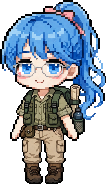
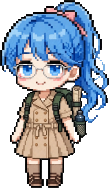
暗記大戦: ルミナの画像を差し替え、パスの文言を「学習機会に感謝してパス🙏」に
Claude-Session: https://claude.ai/code/session_01HyMbFgzqrrboVnKsKRj3Gv

diff --git a/apps/anki-taisen/index.html b/apps/anki-taisen/index.html
@@ -86,7 +86,7 @@ button:focus-visible,input:focus-visible,select:focus-visible{outline:2px solid 
 .btn:disabled{opacity:.45;cursor:default}
 /* ルミナの案内（2026-11-17 お試し）: 結果と今日の復習の声かけ */
 .lumi{display:flex;align-items:flex-end;gap:10px}
-.lumi img{width:53px;height:92px;image-rendering:pixelated;flex:none}
+.lumi img{width:auto;height:94px;image-rendering:pixelated;flex:none}   /* 2026-11-24 画像差し替え（元画像 src/lumina-src.webp、背景を抜いて109x188に縮小） */
 .lumi .say{position:relative;flex:1;min-width:0;background:var(--surf);color:var(--ink);border:2px solid var(--frame,var(--line));border-radius:6px;box-shadow:0 0 0 3px var(--frame2,transparent);padding:8px 12px 10px;margin:0 0 18px 6px;line-height:1.7;min-height:3.4em}
 .lumi .say::before{content:"";position:absolute;left:-12px;bottom:12px;border:6px solid transparent;border-right-color:var(--frame,var(--line))}
 .lumi .say b{display:block;font-size:.78em;color:var(--sup,var(--acc));letter-spacing:.15em}
@@ -499,7 +499,7 @@ h1.plain{font-size:20px;padding:12px 16px;border-radius:14px;text-align:left;box
       <div class="keypad" id="keypad"></div>
       <div class="choices" id="choices" hidden></div>
       <form class="typebox" id="typeBox" hidden><input id="typeIn" type="text" autocomplete="off" autocapitalize="off" spellcheck="false" enterkeyhint="done" placeholder="答えを入力"><button class="btn" type="submit">決定</button></form>
-      <button class="btn ghost" id="passBtn" type="button">学習機会に感謝🙏（パス）</button>
+      <button class="btn ghost" id="passBtn" type="button">学習機会に感謝してパス🙏</button>
     </div>
 
     <div id="revealArea" hidden style="display:flex;flex-direction:column;gap:12px">

diff --git a/apps/anki-taisen/src/src.html b/apps/anki-taisen/src/src.html
@@ -57,7 +57,7 @@ button:focus-visible,input:focus-visible,select:focus-visible{outline:2px solid 
 .btn:disabled{opacity:.45;cursor:default}
 /* ルミナの案内（2026-11-17 お試し）: 結果と今日の復習の声かけ */
 .lumi{display:flex;align-items:flex-end;gap:10px}
-.lumi img{width:53px;height:92px;image-rendering:pixelated;flex:none}
+.lumi img{width:auto;height:94px;image-rendering:pixelated;flex:none}   /* 2026-11-24 画像差し替え（元画像 src/lumina-src.webp、背景を抜いて109x188に縮小） */
 .lumi .say{position:relative;flex:1;min-width:0;background:var(--surf);color:var(--ink);border:2px solid var(--frame,var(--line));border-radius:6px;box-shadow:0 0 0 3px var(--frame2,transparent);padding:8px 12px 10px;margin:0 0 18px 6px;line-height:1.7;min-height:3.4em}
 .lumi .say::before{content:"";position:absolute;left:-12px;bottom:12px;border:6px solid transparent;border-right-color:var(--frame,var(--line))}
 .lumi .say b{display:block;font-size:.78em;color:var(--sup,var(--acc));letter-spacing:.15em}
@@ -470,7 +470,7 @@ h1.plain{font-size:20px;padding:12px 16px;border-radius:14px;text-align:left;box
       <div class="keypad" id="keypad"></div>
       <div class="choices" id="choices" hidden></div>
       <form class="typebox" id="typeBox" hidden><input id="typeIn" type="text" autocomplete="off" autocapitalize="off" spellcheck="false" enterkeyhint="done" placeholder="答えを入力"><button class="btn" type="submit">決定</button></form>
-      <button class="btn ghost" id="passBtn" type="button">学習機会に感謝🙏（パス）</button>
+      <button class="btn ghost" id="passBtn" type="button">学習機会に感謝してパス🙏</button>
     </div>
 
     <div id="revealArea" hidden style="display:flex;flex-direction:column;gap:12px">

diff --git a/apps/anki-taisen/README.md b/apps/anki-taisen/README.md
@@ -195,6 +195,7 @@
 - publishable key は公開してよい値。service role key は置かない。
 - 2026-11-05 部屋番号は必ずある（Keita決定）: ?room= が無ければ開くたびにランダムな6桁を割り振ってURLに書き込む（src/pubhead.html）。同じ部屋番号のURLを開いた人どうしが同じ部屋。ロビー上部に「部屋 123456」と「この部屋のURLをシェア」（スマホは共有シート、PCはコピー）。SUPER歴史ノベルも同じ決まり。
 - 2026-11-06 オープンルーム（Keita決定・暫定）: ?room= が無ければ誰でも入れる「オープンルーム」（部屋名 open）に入る。ロビーの「個室を作る」でランダム6桁の部屋を作り、「この部屋のURLをシェア」で送る。個室からは「オープンルームへ」で戻れる。SUPER歴史ノベルは 11-05 の決まり（必ずランダム6桁）のまま。
+- 2026-11-24 ルミナの画像を差し替え（Keita依頼。元画像 src/lumina-src.webp の白背景を抜き、109×188 に縮小。表示は高さ94px）。パスのボタンは「学習機会に感謝してパス🙏」（Keita依頼）。
 - 2026-11-17 ルミナ（経太さんのキャラ、lumina.png）を案内役としてお試し: 結果画面の番付の下に正答率に応じたひとこと、ロビーに今日の復習の枚数の声かけ（lumiSay で1字ずつ表示、動きを減らす設定なら一度に）。学習記録の行は「定着度 ●○○」だけにし「正解 ○日」は外した（Keita「いらん情報」）。
 - 2026-11-17 トピック番号の付け直し（Keita「よしなに」）: 数学は高校数学の各トピック（例 二次方程式 math-equations-inequalities-006）、簿記3級は経営学の会計（仕訳 biz-068・決算 biz-072 など）、行動経済学・法学・栄養学・哲学の残り数枚も近いトピックへ。教養8ジャンル（世界遺産・建築・名画・クラシック・星座・料理・酒・旬の食材）は人生クエストに新設した教養プリセット（kyo-○○、分野＝札のグループ）の番号を付けた。クラシック「子犬のワルツ」に音源（CC BY-SA 4.0、Wikimedia Commons）を追加。
 - 2026-11-17 基礎の見直し（Keita依頼「全ジャンル見直して学ぶべき知識の抜けを足して。高難度はまだいい」）: §2.1 の基準（中学〜高校の教科書で最初に出る語・一般常識）に照らし、学問・教養の基礎に90枚を追加（例 経済＝供給曲線・寡占・直接税/間接税、地理＝緯度・経度・少子高齢化・ステップ/冷帯/ツンドラ気候、化学＝元素・単体・化合物・分子・イオン・質量保存の法則、物理＝電流・電圧・磁界、地学＝断層・高気圧・自転/公転、法学＝裁判員制度・クーリング・オフ・労働三権、哲学＝ソクラテスら6人、数学＝中学の基本8問）。上のレベルにあった基本語31枚（体細胞分裂・火砕流・認知症・黄道12星座の残り4つ・ボレロ・平泉など）を基礎へ上げた。応用は手を付けていない。新しい札にはトピック番号と入力の別解（読みがな）を付けた。資料画像は未付与（配布元のアクセス制限のため後日）。追加用スクリプトはスクラッチの addk.py（batchN.py に ADD・PROMOTE を書く）。
